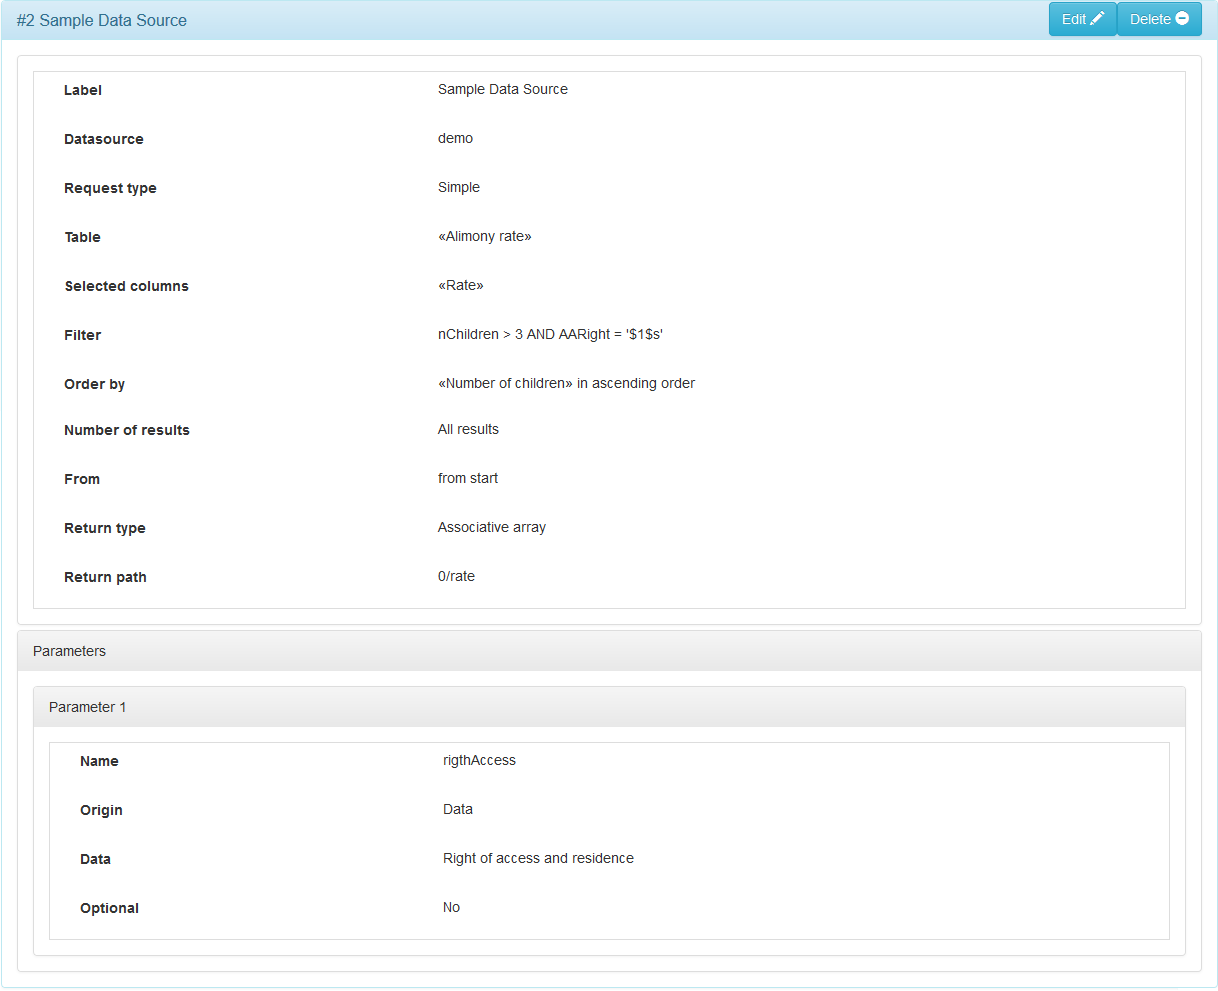
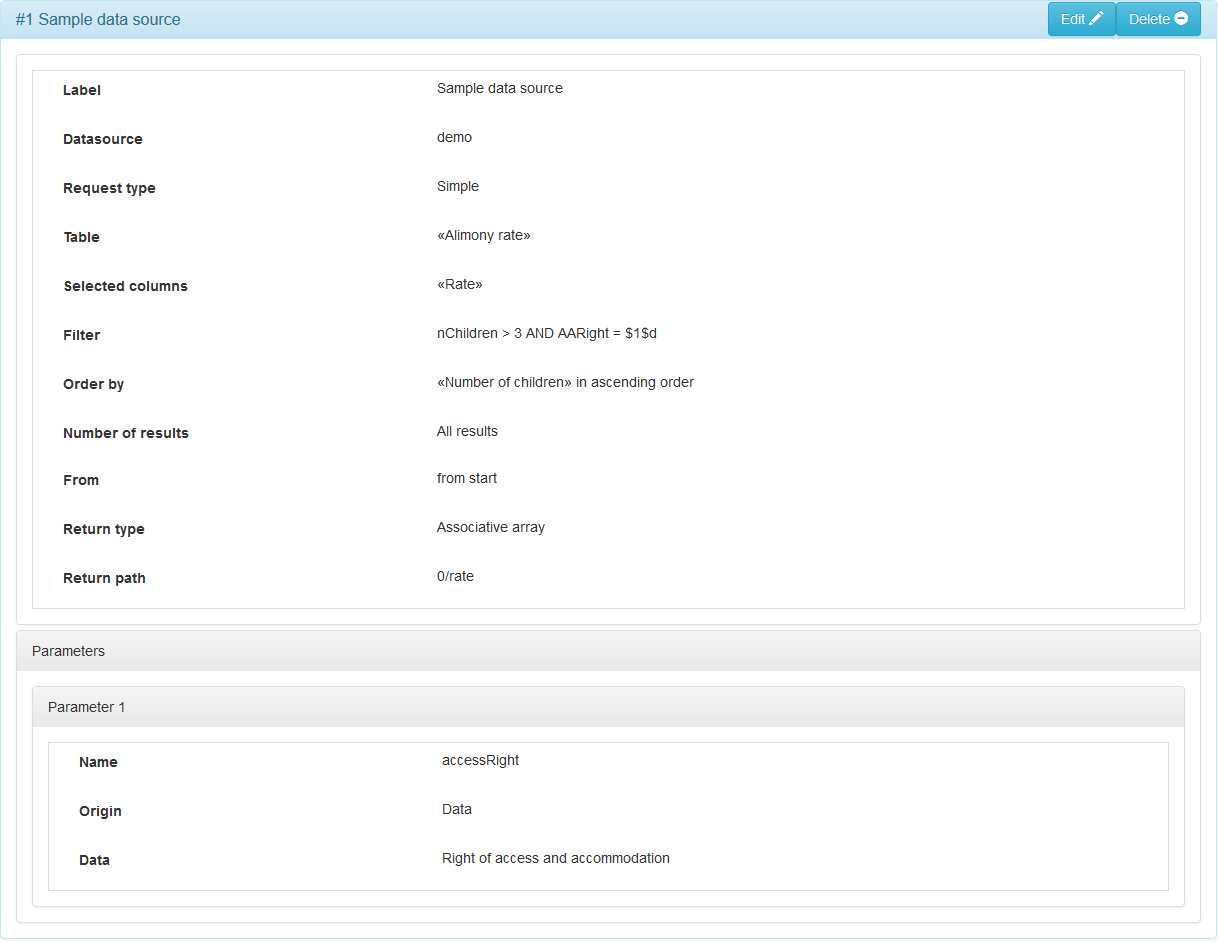
Updated G6K documentation

diff --git a/g6k/documentation/simulators-management.html b/g6k/documentation/simulators-management.html
@@ -23,7 +23,7 @@
 
   <div class="row">
 
-<div class="span3 bs-docs-sidebar"><ul class="nav nav-list bs-docs-sidenav" data-spy="affix"><li data-level="1"><a href="#1">Simulators</a></li><li data-level="1"><a href="#2">Before you begin</a></li><li data-level="1"><a href="#3">Creating a data source</a></li><li data-level="1"><a href="#4">Creating a simulator</a></li><li data-level="2"><a href="#5">Used data sources</a></li><li data-level="2"><a href="#6">Data</a></li><li data-level="2"><a href="#7">Steps</a></li><li data-level="3"><a href="#8">Panels</a></li><li data-level="4"><a href="#9">Fields set</a></li><li data-level="5"><a href="#10">Fields</a></li><li data-level="4"><a href="#11">Info block</a></li><li data-level="5"><a href="#12">Chapter</a></li><li data-level="6"><a href="#13">Section</a></li><li data-level="3"><a href="#14">Footnotes</a></li><li data-level="3"><a href="#15">Action Buttons</a></li><li data-level="2"><a href="#16">Business rules</a></li><li data-level="2"><a href="#17">Profiles</a></li><li data-level="2"><a href="#18">Simulator registration</a></li></ul></div><div class="span9"><p><!-- title: G6K: Administration guide  -->
+<div class="span3 bs-docs-sidebar"><ul class="nav nav-list bs-docs-sidenav" data-spy="affix"><li data-level="1"><a href="#1">Simulators</a></li><li data-level="1"><a href="#2">Before you begin</a></li><li data-level="1"><a href="#3">Creating a data source</a></li><li data-level="1"><a href="#4">Creating a simulator</a></li><li data-level="2"><a href="#5">Used data sources</a></li><li data-level="2"><a href="#6">Data</a></li><li data-level="2"><a href="#7">Steps</a></li><li data-level="3"><a href="#8">Panels</a></li><li data-level="4"><a href="#9">Fields set</a></li><li data-level="5"><a href="#10">Fields</a></li><li data-level="4"><a href="#11">Blocks of information</a></li><li data-level="5"><a href="#12">Chapter</a></li><li data-level="6"><a href="#13">Section</a></li><li data-level="3"><a href="#14">Footnotes</a></li><li data-level="3"><a href="#15">Action Buttons</a></li><li data-level="2"><a href="#16">Business rules</a></li><li data-level="2"><a href="#17">Profiles</a></li><li data-level="2"><a href="#18">Simulator registration</a></li></ul></div><div class="span9"><p><!-- title: G6K: Administration guide  -->
 <!-- subtitle: Simulators management --></p>
 
 <div class="alert alert-danger" role="alert">
@@ -42,7 +42,7 @@ CAUTION: This document, which is under development, is very incomplete.
 
 <p>Before starting to enter the simulator, think carefully about the simulation scenario, that is, its step-by-step division and their sequence. A simulation step corresponds to a page and vice versa.</p>
 
-<p>In each page, it is necessary to define the information that will be requested from the user (via a form) and those that are restored to him. A page may also contain blocks of information.</p>
+<p>In each page, it is necessary to define the information that will be requested from the user (via a form) and those that are restituted to him. A page may also contain blocks of information.</p>
 
 <p>The information returned is either reference data or data from the result of a calculation according to calculation rules (legislation).</p>
 
@@ -130,10 +130,10 @@ G6K constructs a navigation line where the penultimate element is constructed wi
 <p>Describe what your simulator does in the « Description » field.
 This description will be displayed below the simulator label/title of all pages/simulation steps.</p>
 
-<p>Optionally, you can enter additional information in the « Related Information » field that the view template will display or not.</p>
+<p>Optionally, you can enter additional information in the « Related Informations » field that the view template will display or not.</p>
 
-<p>When you have finished entering the parameters and clicking on the button, the <img src="en/simulators-management-save.png" alt="Save" title="" /> button appears at the top right of the page.
-This button allows you to send the entered or modified information to the server at any time, the « Validate » button only keeps the information in the memory of your computer.</p>
+<p>When you have finished entering the parameters and clicking on the button <img src="en/simulators-management-validate-button.png" alt="Validate" title="" />, the <img src="en/simulators-management-save.png" alt="Save" title="" /> button appears at the top right of the page.
+This button allows you to send the entered or modified information to the server at any time, because the « Validate » button only keeps the information in the memory of your computer.</p>
 
 <h2 id="5">Used data sources</h2>
 
@@ -141,6 +141,8 @@ This button allows you to send the entered or modified information to the server
 Some of these queries may require parameters that must be defined in the « Data » panel beforehand.</p>
 
 <p>In the title bar of the « Used data sources » panel, click the "Add" button to display the screen for selecting the source and defining a query:</p>
+
+<p><img src="en/simulators-management-datasource-add-button.png" alt="" title="" /></p>
 
 <p><img src="en/simulators-management-datasource-add.png" alt="" title="" /></p>
 
@@ -163,25 +165,25 @@ Some of these queries may require parameters that must be defined in the « Dat
 <p><strong>Attributes:</strong></p>
 
 <ol>
-<li>« Query type »: The queries are either « Simple", that is, you are guided by the menu, or of type « Complex » in this case you will be free to type your queries with the SQL language. If the query is for a single table and does not have a nested query, choose the « Simple » type, otherwise choose the « Complex » type.</li>
+<li>« Request type »: The queries are either « Simple", that is, you are guided by the menu, or of type « Complex » in this case you will be free to type your queries with the SQL language. If the query is for a single table and does not have a nested query, choose the « Simple » type, otherwise choose the « Complex » type.</li>
 <li>« Table »: Name of the table to which the request relates.</li>
 <li>« Selected Columns »: Fields/columns of the table that contain the data you want to retrieve.
 To enter a column, click the '+' to the right of the field and select the column from the drop-down list.
 You can also compose an expression in which case you will need to define an alias as the column name.
 To delete a column, click the 'x' to the left of the column name.</li>
 <li>« Filter »: Requirements for fields/columns to keep only the rows of the result of the query complying with these conditions.</li>
-<li>« Sorted by »: Sort in ascending or descending order on the selected fields/columns.
+<li>« Order by »: Sort in ascending or descending order on the selected fields/columns.
 To enter a column, do as in &amp; nbsp; 3., And then select the sort order (ascending or descending).</li>
 <li>« Number of Results »: Include the number of rows that should be retained among all « rows » of results returned by the query. Set 0 if all lines are to be retained.</li>
 <li>« From »: From all « rows » of results returned by the query, indicate the number of the first line that must be taken into account for processing the query. The number of the first line is 0, 1 the second and so on.</li>
-<li>« Format of returned data"
+<li>« Return type »:
 <ul><li>« JSON »: format for the exchange of data in readable text.</li>
 <li>« XML »: format of description of the data.</li>
 <li>« Single value »: N/A.</li>
 <li>« Key / value pairs »: Table of key / value pairs.</li>
 <li>« HTML »: data format designed to represent web pages.</li>
 <li>« CSV »: open computer format representing data in comma-separated values.</li></ul></li>
-<li>« Path to Searched Data »: The path depends on the format of the data being returned:
+<li>« Return path »: The path depends on the format of the data being returned:
 <ul><li>« JSON »: Path to <a href="http://goessner.net/articles/JsonPath/">JsonPath</a> or <a href="http://xmlfr.org/w3c/TR/xpath/">Xpath</a></li>
 <li>« XML »: Path in the format <a href="http://xmlfr.org/w3c/TR/xpath/">Xpath</a></li>
 <li>« Single Value »: N/A</li>
@@ -190,13 +192,22 @@ To enter a column, do as in &amp; nbsp; 3., And then select the sort order (asce
 
 <p>To construct the query, refer to the <a href="source-query-builder.html">Visual Component Manufacturing Simple Queries</a> documentation</p>
 
-<p class="figure-legend">Data source with a simple query and parameter</p>
+<p>If the query contains a variable parameter, you must first declare a data (see « Data » section below) which will contain the value of the parameter.</p>
+
+<p>Then, validate the entry without entering the filter at first. Click on the "Edit" button. The <img src="en/simulators-management-datasource-parameter-add-button.png" alt="" title="" /> button appears at the bottom right of the form to allow you to declare the parameter. <br>
+After you declare the parameter, you can enter the filter and select the parameter of the expression.</p>
+
+<p class="figure-legend">Figure 1: Data source with a simple query and parameter</p>
 
 <p><img src="en/simulators-management-datasource-add-simple.png" alt="" title="" /></p>
 
+<p>Once the input is validated, the following screen is displayed:</p>
+
 <p><img src="en/simulators-management-datasource-display-simple.png" alt="" title="" /></p>
 
-<p class="figure-legend">Data source with complex query and parameter</p>
+<p>This query will return an array of « 'rate'/rate value » pairs. The specified return path (0/rate) will select the first row of the array and the value corresponding to 'rate'. We will see later how to declare a data to store the value of the rate.</p>
+
+<p class="figure-legend">Figure 2: Data source with complex query</p>
 
 <p><img src="en/simulators-management-datasource-add-complex.png" alt="" title="" /></p>
 
@@ -220,6 +231,8 @@ To enter a column, do as in &amp; nbsp; 3., And then select the sort order (asce
 
 <p>The data allow to store values whatever their origin (user input, data source, element or result of calculations).
 They can be grouped into groups of data, allowing them to be arranged in the rows of a table (see « Grid layout » for a group of fields later in this document).</p>
+
+<p><img src="en/simulators-management-data-add-button.png" alt="" title="" /></p>
 
 <p><img src="en/simulators-management-data-add-menu.png" alt="" title="" /></p>
 
@@ -265,6 +278,8 @@ They can be grouped into groups of data, allowing them to be arranged in the row
 <li>« Online »: The fields and their labels are arranged one after the other in order to form a sentence.</li>
 </ul>
 
+<p><img src="en/simulators-management-step-add-button.png" alt="" title="" /></p>
+
 <p><img src="en/simulators-management-step-add.png" alt="" title="" /></p>
 
 <p><strong>Attributes:</strong></p>
@@ -286,6 +301,8 @@ They can be grouped into groups of data, allowing them to be arranged in the row
 
 <p>The panels compose the steps and are themselves made up of groups of fields.
 If there are several panels, they will be presented in the form of tabs:</p>
+
+<p><img src="en/simulators-management-panel-add-button.png" alt="" title="" /></p>
 
 <p><img src="en/simulators-management-panel-add.png" alt="" title="" /></p>
 
@@ -353,7 +370,7 @@ If there are several panels, they will be presented in the form of tabs:</p>
 <li>« Form Field Editor »:</li></ul></li>
 </ol>
 
-<h4 id="11">Info block</h4>
+<h4 id="11">Blocks of information</h4>
 
 <p><img src="en/simulators-management-blockinfo-add.png" alt="" title="" /></p>
 
@@ -405,6 +422,8 @@ If there are several panels, they will be presented in the form of tabs:</p>
 
 <p>Business rules are defined in the following way: « When ... » conditions, « Then ... » actions and « Else ... » actions.</p>
 
+<p><img src="en/simulators-management-rule-add-button.png" alt="" title="" /></p>
+
 <p><img src="en/simulators-management-rule-add.png" alt="" title="" /></p>
 
 <p>It is the « business rules » that determine the behavior of the simulator. They are triggered when the context changes.</p>
@@ -430,6 +449,8 @@ If there are several panels, they will be presented in the form of tabs:</p>
 <p>When you define profiles, you will pre-define data related to the different profiles.</p>
 
 <p>Profiles can correspond to types of people e.g. predefined data for a professional differ from pre-filled data of an individual.</p>
+
+<p><img src="en/simulators-management-profile-add-button.png" alt="" title="" /></p>
 
 <p><img src="en/simulators-management-profiles.png" alt="" title="" /></p>
 

diff --git a/g6k/documentation/index.html b/g6k/documentation/index.html
@@ -1,0 +1,111 @@
+<!DOCTYPE html>
+<html lang="en">
+  <head>
+    <meta charset="utf-8">
+    <meta name="viewport" content="width=device-width, initial-scale=1.0">
+    <meta name="description" content="">
+    <meta name="author" content="">
+    <title>G6K: Administration guide </title>
+
+    <!-- Le styles -->
+    <link href="bootstrap/css/bootstrap.css" rel="stylesheet">
+    <link href="bootstrap/css/bootstrap-responsive.css" rel="stylesheet">
+    <link href="bootstrap/css/docs.css" rel="stylesheet">
+    <link href="bootstrap/js/google-code-prettify/prettify.css" rel="stylesheet">
+
+  </head>
+
+  <body data-spy="scroll" data-target=".bs-docs-sidebar">
+
+  <header class="jumbotron subhead" id="overview"><div class="container"><h1>G6K: Administration guide </h1><p class="lead">Tutorials</p></div></header>
+
+  <div class="container">
+
+  <div class="row">
+
+<div class="span3 bs-docs-sidebar"><ul class="nav nav-list bs-docs-sidenav" data-spy="affix"><li data-level="1"><a href="#1">Simulators</a></li><li data-level="1"><a href="#2">Data sources</a></li><li data-level="1"><a href="#3">Views</a></li><li data-level="1"><a href="#4">Users</a></li></ul></div><div class="span9"><p><!-- title: G6K: Administration guide  -->
+<!-- subtitle: Tutorials --></p>
+
+<div class="documentation-index container-fluid">
+    <div class="row">
+        <div class="documentation-illustration pull-right">
+            <a href="simulators-management.html">
+                <img src="simulators-illustration.jpeg" alt="Simulators" />
+            </a>
+        </div>
+        <div class="documentation-text">
+            <h1 id="1">Simulators</h1>
+            A calculation simulator is an online service made available to a user to enable them to calculate the results (taxes, social benefits, etc.) corresponding to their particular situation.<br />
+            <br />
+            The results are calculated on the basis of data supplied by the user, reference data (e.g. amount of a tax) and business rules reflecting the current legislation in the field of simulation.<br />
+            <br />
+            <a href="simulators-management.html">
+                <span>View the documentation</span>&nbsp;&nbsp;<span class="glyphicon glyphicon-book"></span>
+            </a>
+        </div>
+    </div>
+    <div class="row">
+        <div class="documentation-text pull-right">
+            <h1 id="2">Data sources</h1>
+            A data source allows a simulator to query the simulation field reference values to perform the simulation.<br />
+            <br />
+            The data source can be internal, i.e. the values are stored in a database managed by G6K,  
+            or external, i.e. the values are supplied either via queries on a remote database or via a web service (API).<br />
+            <br />
+            <a href="datasources-management.html">
+                <span>View the documentation</span>&nbsp;&nbsp;<span class="glyphicon glyphicon-book"></span>
+            </a>
+        </div>
+        <div class="documentation-illustration">
+            <a href="datasources-management.html">
+                <img class="img-responsive" src="datasources-illustration.jpeg" alt="Data sources" />
+            </a>
+        </div>
+    </div>
+    <div class="row">
+        <div class="documentation-illustration pull-right">
+            <a href="views-management.html">
+                <img class="img-responsive" src="views-illustration.jpeg" alt="Views" />
+            </a>
+        </div>
+        <div class="documentation-text">
+            <h1 id="3">Views</h1>
+            Views are design elements of pages and styles in which the simulators are integrated.<br />
+            They are composed of « Templates » and « Assets ».<br />
+            <br />
+            <a href="views-management.html">
+                <span>View the documentation</span>&nbsp;&nbsp;<span class="glyphicon glyphicon-book"></span>
+            </a>
+        </div>
+    </div>
+    <div class="row">
+        <div class="documentation-text pull-right">
+            <h1 id="4">Users</h1>
+            G6K has an interface allowing you to manage the user accounts that are authorized to access either the G6K administration module or the protected access simulators.<br />
+            <br />
+            <a href="users-management.html">
+                <span>View the documentation</span>&nbsp;&nbsp;<span class="glyphicon glyphicon-book"></span>
+            </a>
+        </div>
+        <div class="documentation-illustration">
+            <a href="users-management.html">
+                <img class="img-responsive" src="users-illustration.jpeg" alt="Users" />
+            </a>
+        </div>
+    </div>
+</div>
+      </div>
+    </div>
+
+  </div>
+
+    <!-- Le javascript
+    ================================================== -->
+    <!-- Placed at the end of the document so the pages load faster -->
+    <script src="bootstrap/js/jquery.js"></script>
+    <script src="bootstrap/js/google-code-prettify/prettify.js"></script>
+    <script src="bootstrap/js/bootstrap.js"></script>
+    <script type="text/javascript">prettyPrint();</script>
+
+  </body>
+</html>

diff --git a/g6k/documentation/bootstrap/css/docs.css b/g6k/documentation/bootstrap/css/docs.css
@@ -834,8 +834,19 @@ form.bs-docs-example {
   bottom: 270px;
 }
 
+.documentation-index .row {
+	margin-bottom: 5em;
+}
 
-
+.documentation-index .row > div {
+	width: 48%
+}
+.documentation-illustration.pull-right img {
+	float: right;
+}
+.documentation-illustration {
+	vertical-align: top;
+}
 
 /* Responsive
 -------------------------------------------------- */
